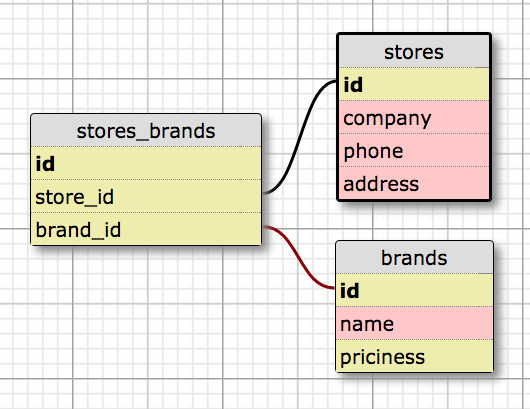
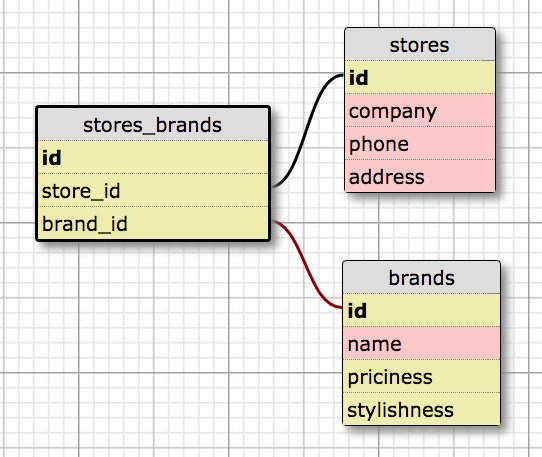
Instance of Book Class and tests pass

diff --git a/src/main/java/Brand.java b/src/main/java/Brand.java
@@ -1,3 +1,33 @@
+import java.util.List;
+import org.sql2o.*;
+import java.util.ArrayList;
+
 public class Brand {
-  
+  private int id;
+  private String name;
+  private int priciness;
+  private int stylishness;
+
+  public int getId() {
+    return id;
+  }
+
+  public String getName() {
+    return name;
+  }
+
+  public int getPriciness() {
+    return priciness;
+  }
+
+  public int getStylishness() {
+    return stylishness;
+  }
+
+  public Brand(String name, int priciness, int stylishness) {
+    this.name = name;
+    this.priciness = priciness;
+    this.stylishness = stylishness;
+  }
+
 }

diff --git a/src/test/java/BrandTest.java b/src/test/java/BrandTest.java
@@ -1,3 +1,16 @@
+import java.util.List;
+import org.junit.*;
+import static org.junit.Assert.*;
+
 public class BrandTest {
-  
+
+  @Rule
+  public DatabaseRule database = new DatabaseRule();
+
+  @Test
+  public void brand_instantiatesCorrectly_true() {
+    Brand testBrand = new Brand("ShoeChic", 5, 3);
+    assertEquals(true, testBrand instanceof Brand);
+  }
+
 }

diff --git a/src/main/java/DB.java b/src/main/java/DB.java
@@ -1,5 +1,5 @@
 import org.sql2o.*;
 
 public class DB {
-  public static Sql2o sql2o = new Sql2o("jdbc:postgresql://localhost:5432/shoe_store", null, null);
+  public static Sql2o sql2o = new Sql2o("jdbc:postgresql://localhost:5432/shoe_stores", null, null);
 }

diff --git a/src/test/java/StoreTest.java b/src/test/java/StoreTest.java
@@ -1,3 +1,10 @@
+import java.util.List;
+import org.junit.*;
+import static org.junit.Assert.*;
+
 public class StoreTest {
-  
+
+  @Rule
+  public DatabaseRule database = new DatabaseRule();
+
 }
